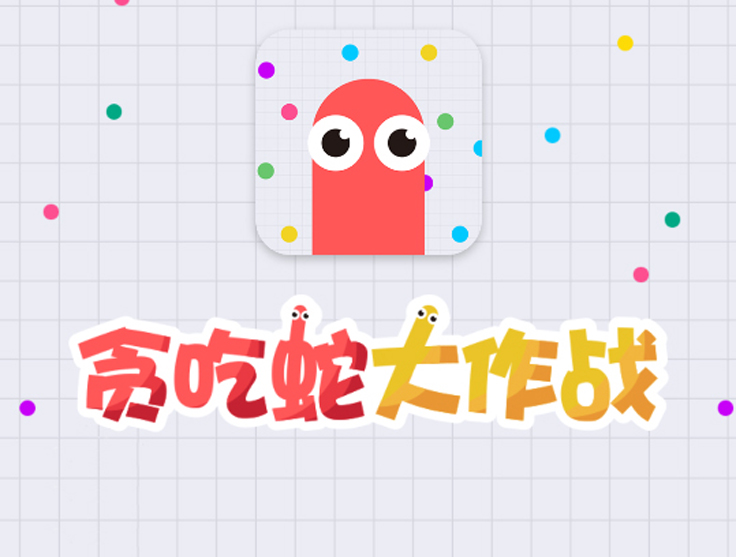
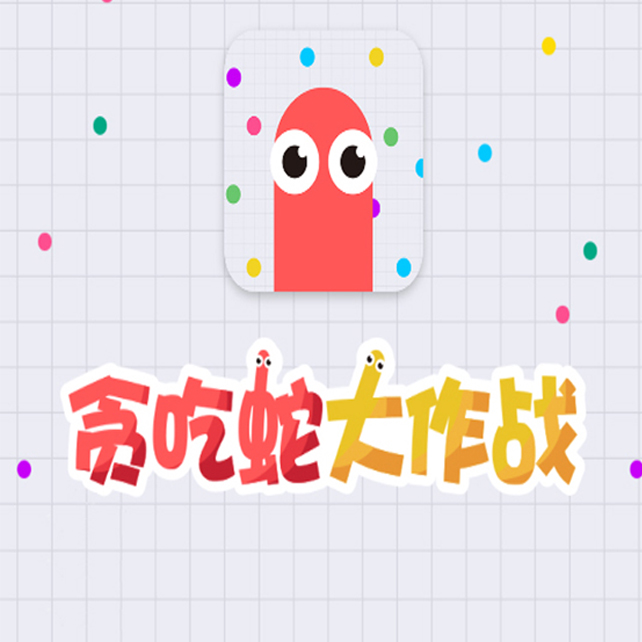
修改图片长宽

diff --git a/setting.py b/setting.py
@@ -11,8 +11,8 @@ class Setting:
         # 窗口大小
         #self.BGWIDTH = self.cover.get_rect()[2]
         #self.BGHEIGHT = self.cover.get_rect()[3]
-        self.BGWIDTH = 500
-        self.BGHEIGHT= 500
+        self.BGWIDTH = self.cover.get_rect()[2]
+        self.BGHEIGHT= self.cover.get_rect()[3]
         # 蛇头原始坐标
         self.originX = self.cover.get_rect()[2]//2
         self.originY = self.cover.get_rect()[3]//2
